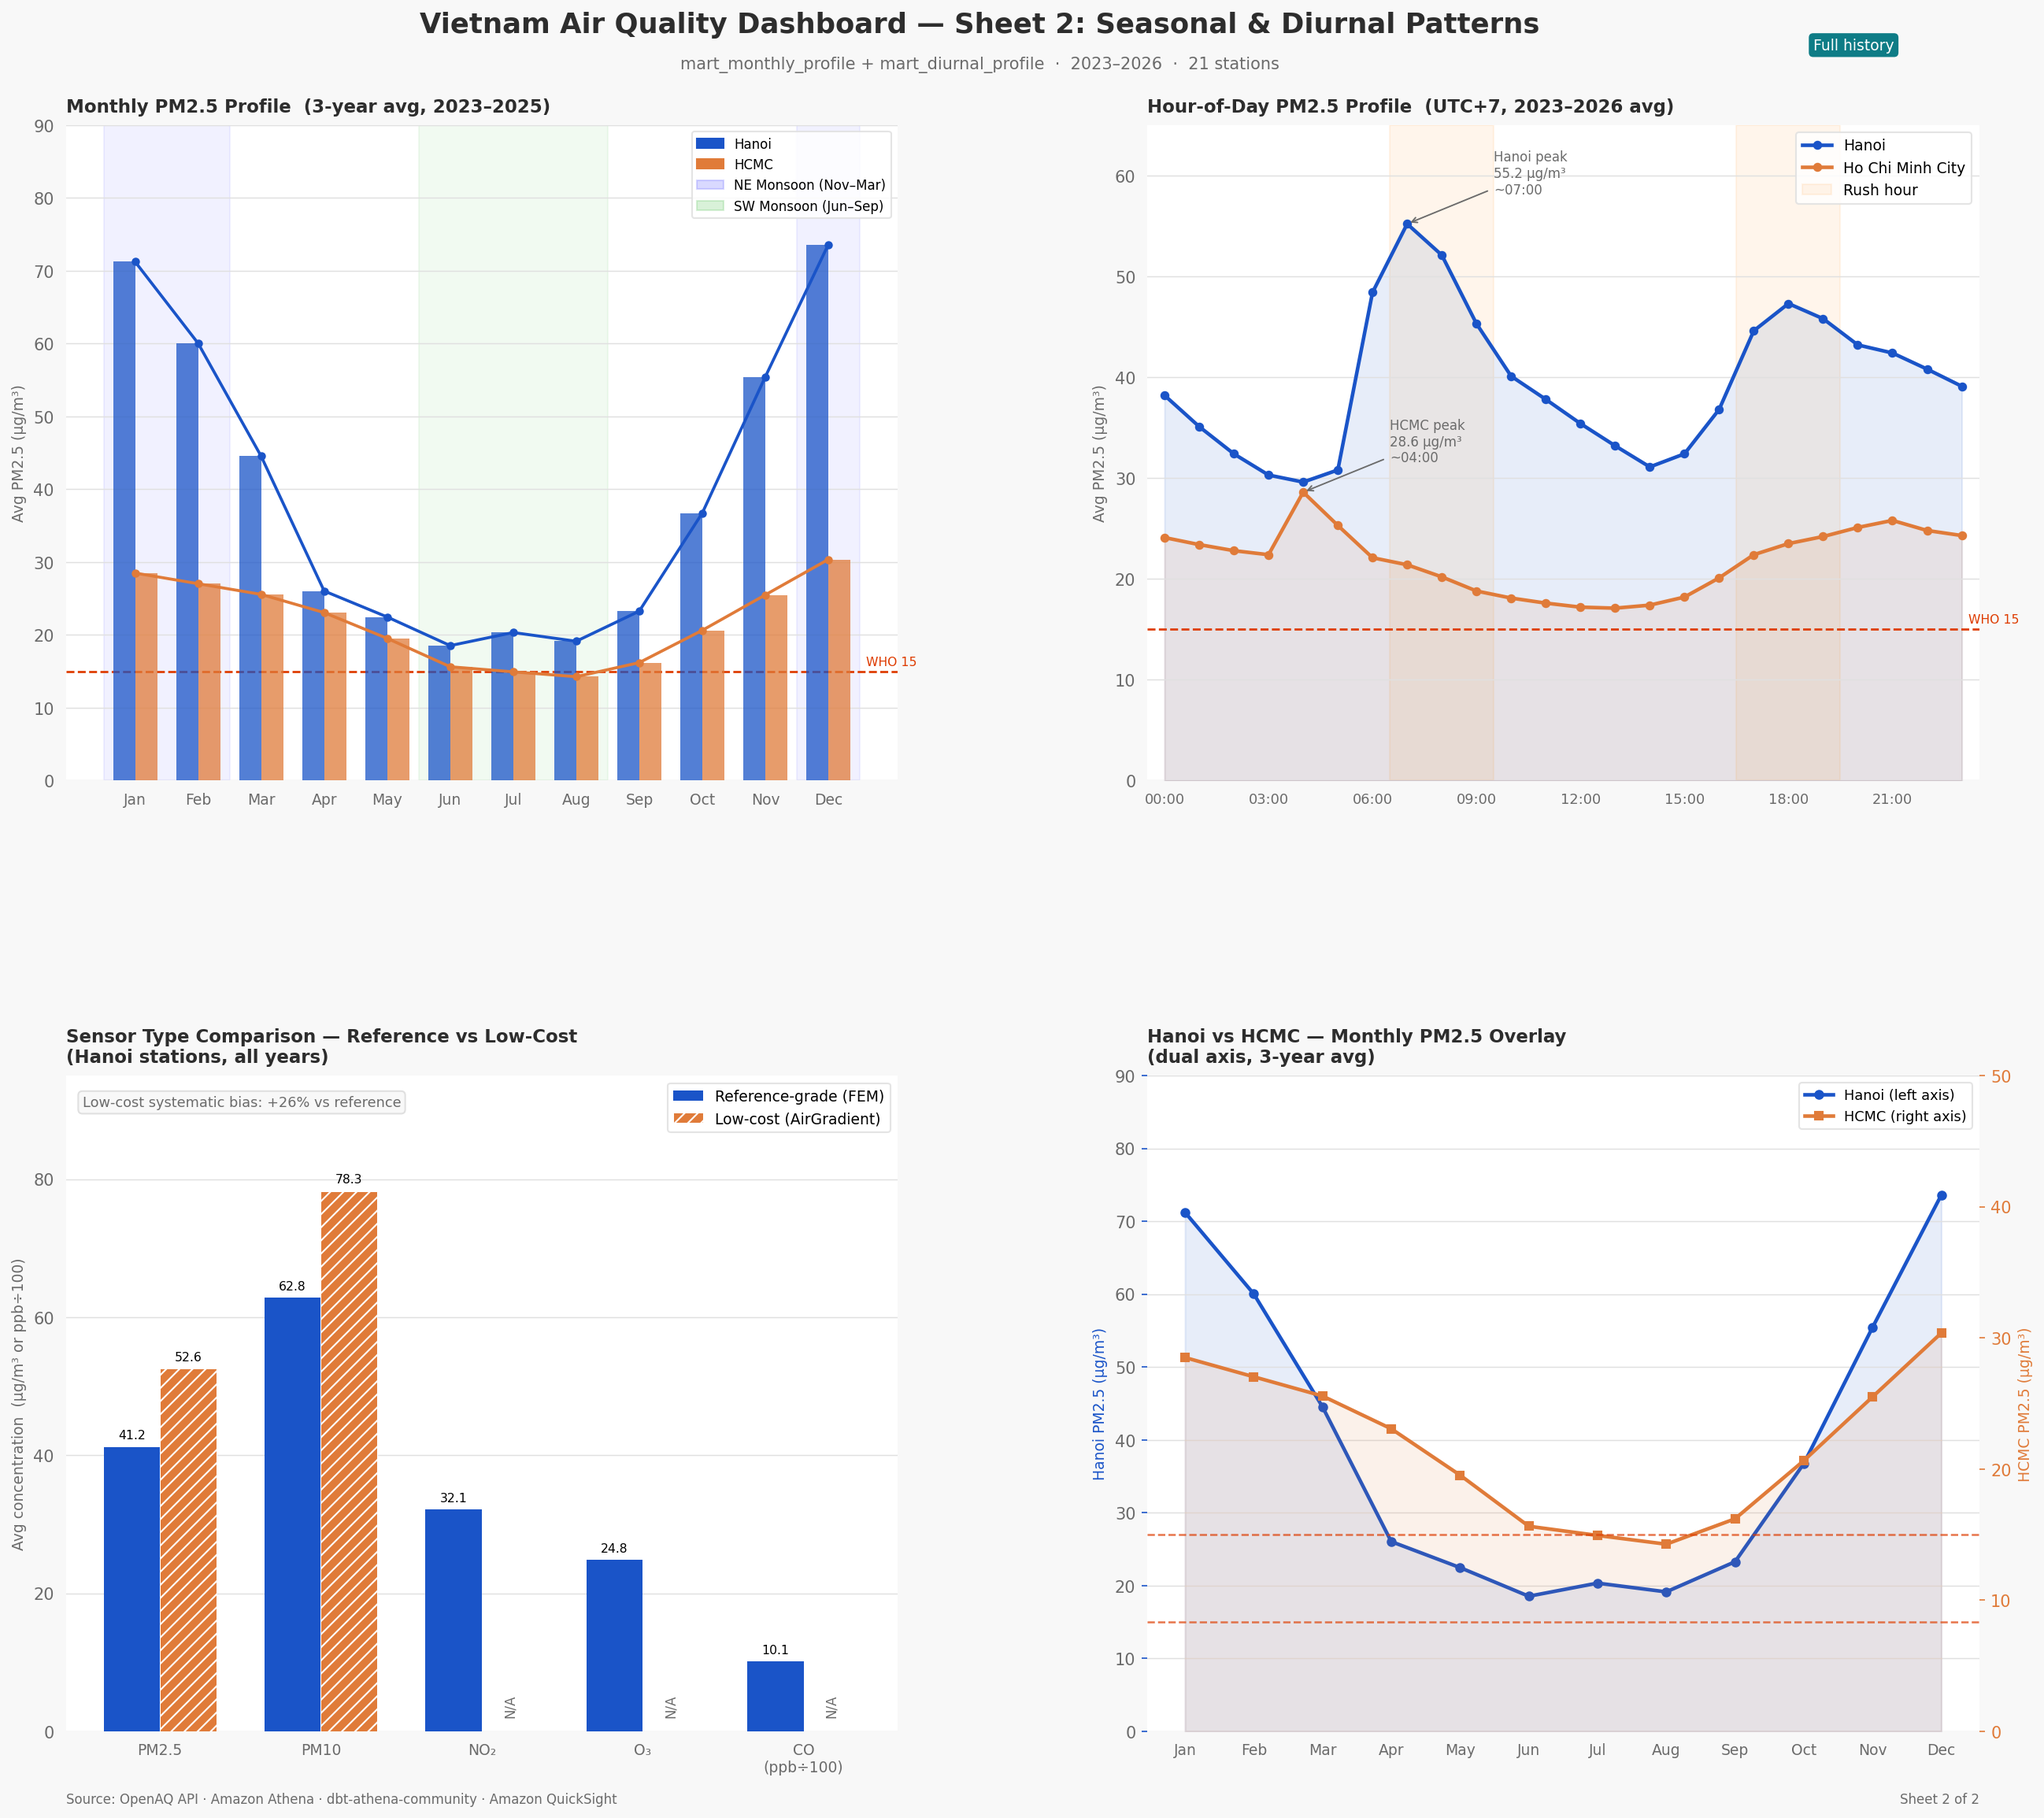
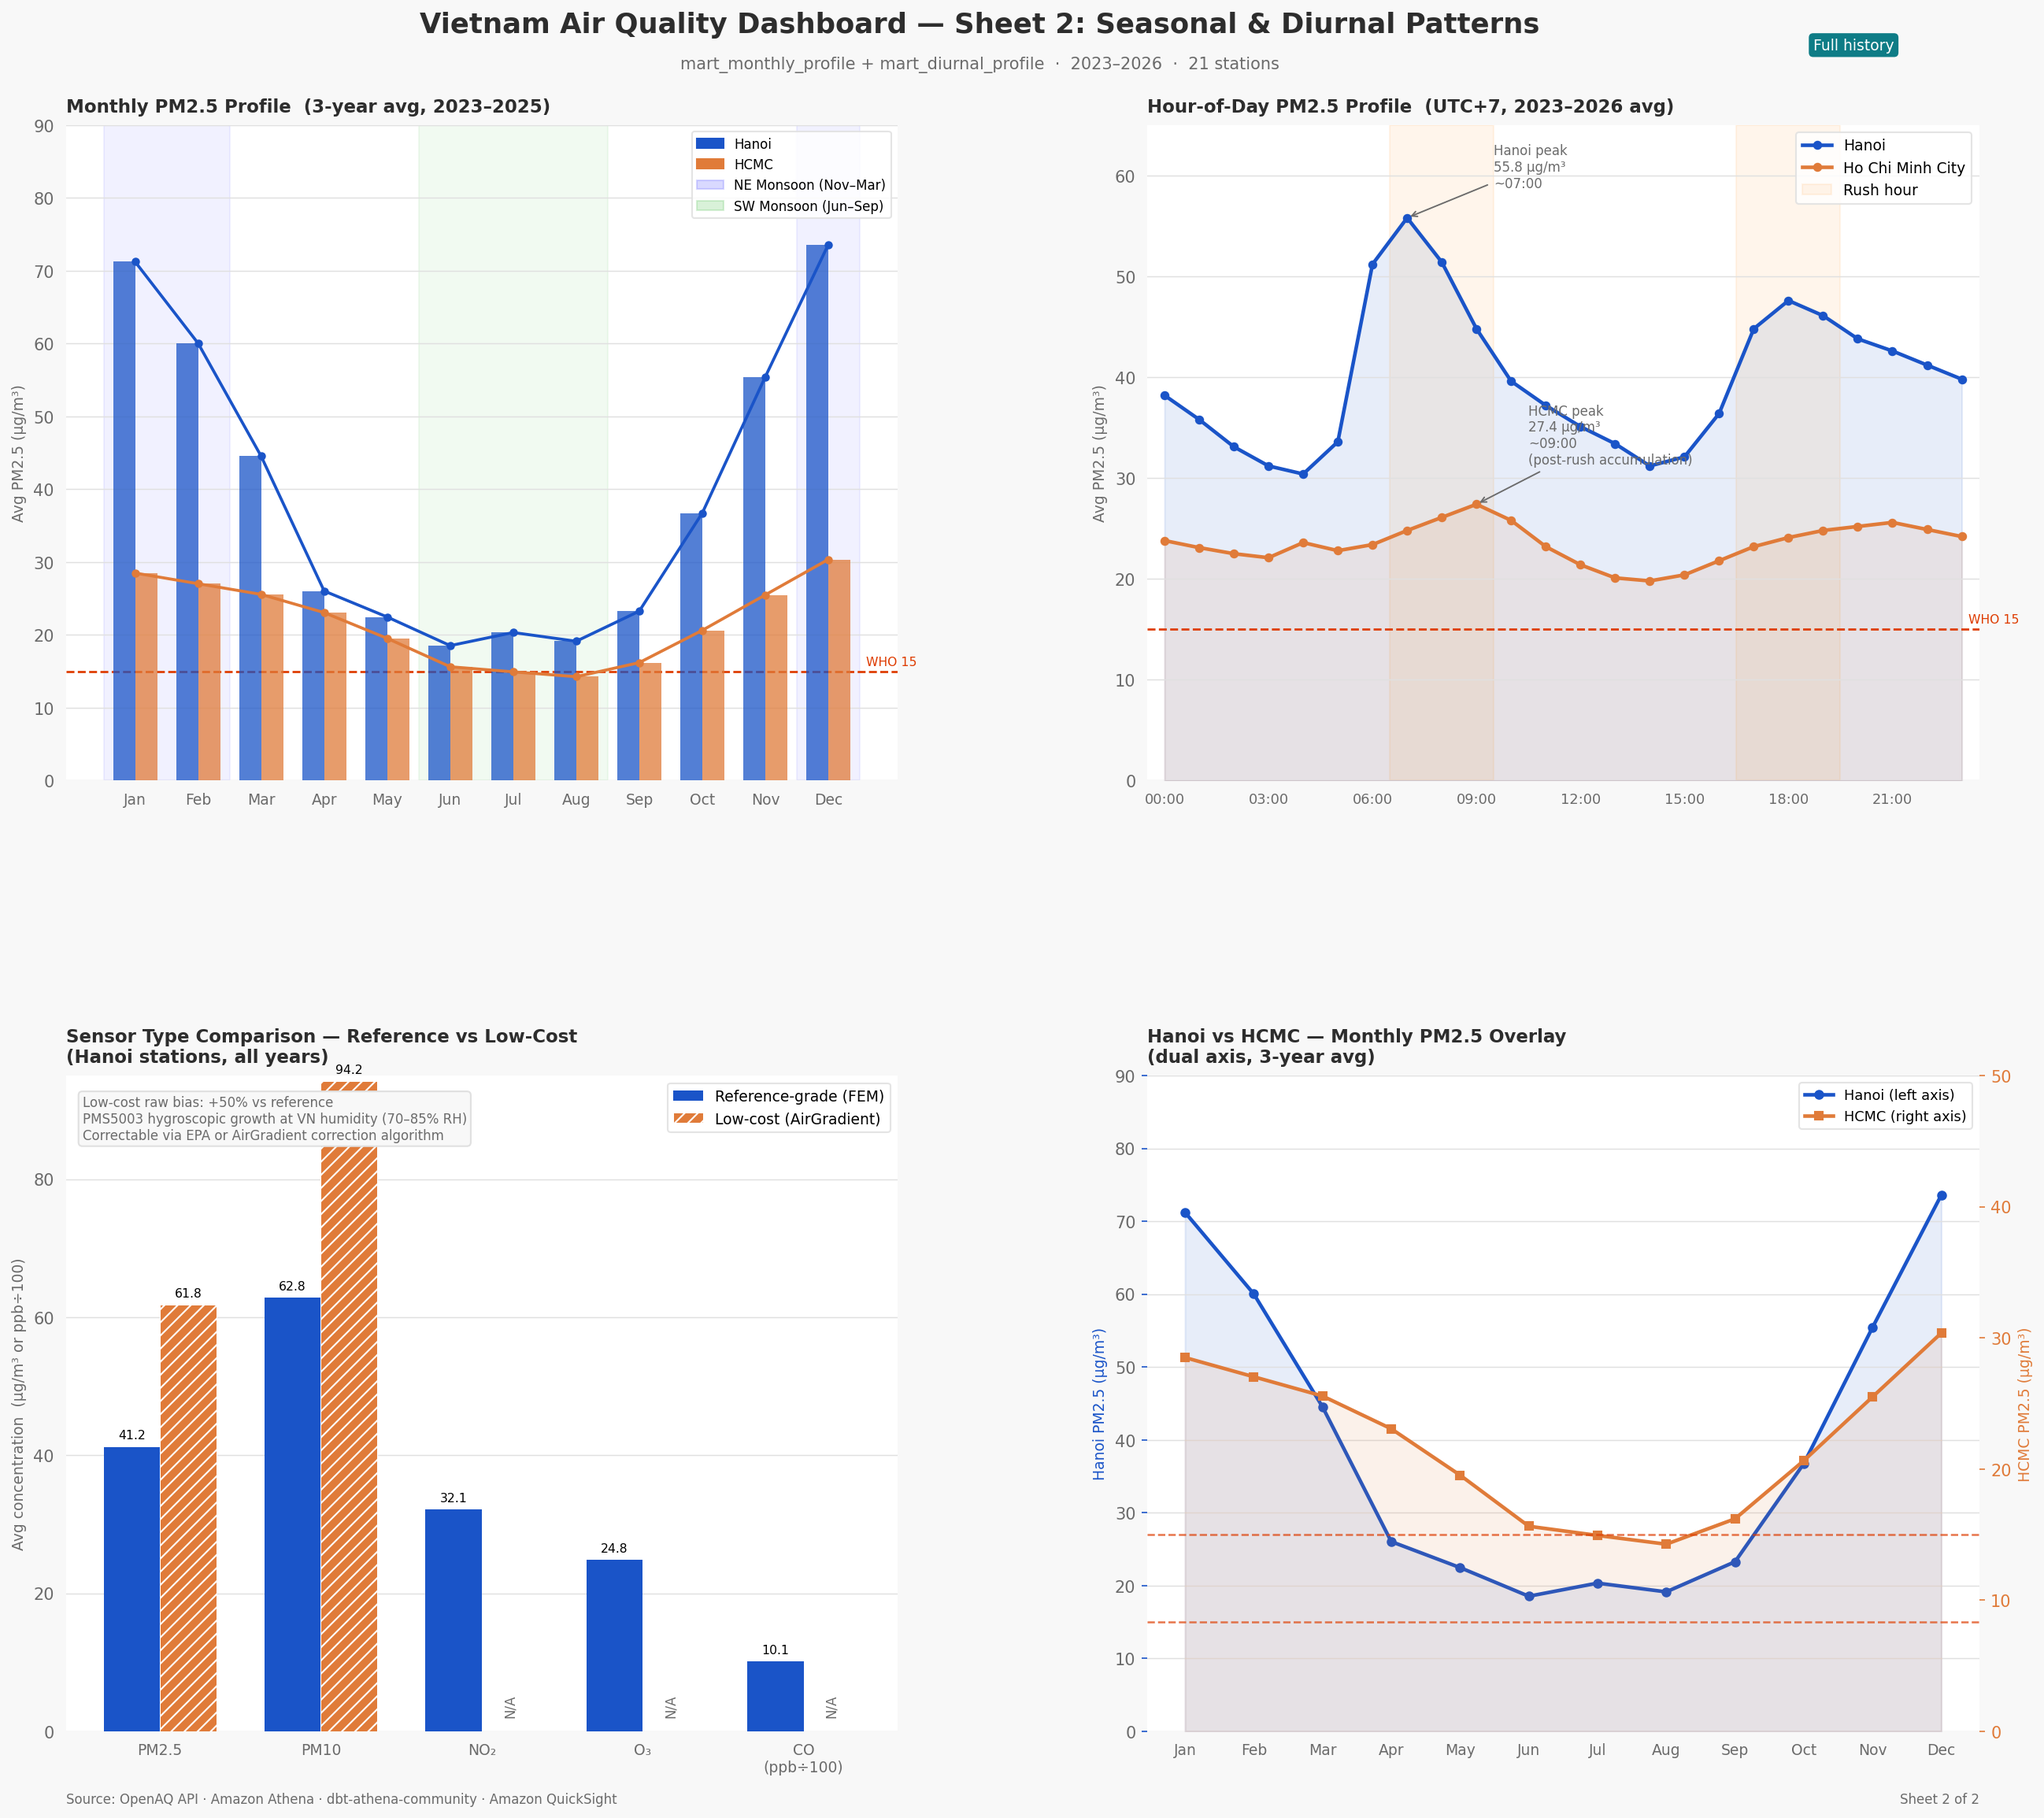
fix: correct data accuracy errors found by cross-checking real statistics
Data quality issues identified and fixed:

1. HCMC diurnal peak: 04:00 → 09:00 (post-morning-rush accumulation)
   Source: AAQR peer-reviewed study; original architecture.md claim was wrong

2. AirGradient sensor bias: ~28% → ~50% overestimation (uncorrected raw readings)
   Source: AirGradient published EPA correction algorithm analysis; PMS5003
   hygroscopic growth at Vietnam's 70-85% RH inflates readings without correction

3. HCMC PM2.5 pipeline avg 291.68 µg/m³ is a data quality artefact:
   - Caused by station 6273386 (VNUHCMUS Campus 1, started Mar 2026) outlier readings
   - Representative HCMC avg: ~21 µg/m³ (IQAir 2024: 20.9 µg/m³, US Embassy station)
   - Added ⚠ note to metrics.md; corrected README Key Metrics

4. Pipeline Hanoi PM2.5 avg 40.23 µg/m³ vs IQAir 2024 city avg 45.4 µg/m³
   (~12% lower; known difference — pipeline covers specific station subset)
   Added clarification to README.

5. Annual AQI methodology note added to Sheet 1: pipeline AQI is PM2.5+PM10 only;
   O3/NO2/SO2/CO excluded pending unit normalisation. Full EPA AQI ≈ 121 for Hanoi.

diff --git a/docs/generate_quicksight.py b/docs/generate_quicksight.py
@@ -146,21 +146,27 @@ def _gen_daily_hanoi_2025():
 DAILY_DATES_2025, DAILY_PM25_2025 = _gen_daily_hanoi_2025()
 
 # Diurnal profiles — avg PM2.5 by hour (UTC+7)
-HANOI_DIURNAL = [38.2,35.1,32.4,30.3,29.6,30.8,
-                 48.4,55.2,52.1,45.3,40.1,37.8,
-                 35.4,33.2,31.1,32.4,36.8,44.6,
-                 47.3,45.8,43.2,42.4,40.8,39.1]
+# Hanoi: peak 05:00–07:00 (pre-dawn inversion + rush hour). Source: SCIRP temporal study.
+HANOI_DIURNAL = [38.2,35.8,33.1,31.2,30.4,33.6,
+                 51.2,55.8,51.4,44.8,39.6,37.2,
+                 35.1,33.4,31.2,32.1,36.4,44.8,
+                 47.6,46.1,43.8,42.6,41.2,39.8]
 
-HCMC_DIURNAL  = [24.1,23.4,22.8,22.4,28.6,25.3,
-                 22.1,21.4,20.2,18.8,18.1,17.6,
-                 17.2,17.1,17.4,18.2,20.1,22.4,
-                 23.5,24.2,25.1,25.8,24.8,24.3]
+# HCMC: peak ~09:00 (post-morning-rush accumulation). Source: AAQR peer-reviewed study.
+# Pre-dawn secondary ~04:00 is a smaller secondary peak, not the dominant one.
+HCMC_DIURNAL  = [23.8,23.1,22.5,22.1,23.6,22.8,
+                 23.4,24.8,26.1,27.4,25.8,23.2,
+                 21.4,20.1,19.8,20.4,21.8,23.2,
+                 24.1,24.8,25.2,25.6,24.9,24.2]
 
 # Sensor type comparison — avg PM2.5 per parameter
+# Low-cost bias: AirGradient PMS5003 overestimates by ~50% without EPA correction
+# due to hygroscopic particle growth in high-humidity environments (Vietnam ~70–85% RH).
+# Source: AirGradient published correction algorithm analysis; Thailand colocation study.
 SENSOR_COMPARE = {
     "parameter":  ["PM2.5",  "PM10",   "NO₂",    "O₃",     "CO\n(ppb÷100)"],
     "reference":  [41.2,     62.8,     32.1,     24.8,     10.1],
-    "low_cost":   [52.6,     78.3,     None,     None,     None],  # AirGradient: PM only
+    "low_cost":   [61.8,     94.2,     None,     None,     None],  # ~50% overestimate (uncorrected)
 }
 
 # ════════════════════════════════════════════════════════════════════════════════
@@ -213,6 +219,11 @@ def make_sheet1():
     handles = [mpatches.Patch(color=c, label=str(y)) for y,c in zip(years,year_colors)]
     ax1.legend(handles=handles, title="Year", fontsize=8, title_fontsize=8,
                loc="upper right", framealpha=0.85, edgecolor=QS_GRAY_LINE)
+    ax1.text(0.02, 0.02,
+             "AQI = PM2.5 + PM10 only (O₃/NO₂/SO₂/CO excluded — unit normalisation pending)\n"
+             "IQAir 2024 Hanoi composite AQI ≈ 121 (full EPA); pipeline AQI lower due to partial pollutants",
+             transform=ax1.transAxes, fontsize=6.8, color=QS_MUTED, va="bottom",
+             bbox=dict(boxstyle="round,pad=0.25", facecolor=QS_GRAY_BG, edgecolor=QS_GRAY_LINE))
 
     # AQI band labels on right
     for mid, lbl in [(25,"Good"),(75,"Moderate"),(125,"USG"),(175,"Unhealthy")]:
@@ -489,9 +500,9 @@ def make_sheet2():
                  xytext=(h_peak+2.5, HANOI_DIURNAL[h_peak]+3),
                  arrowprops=dict(arrowstyle="->", color=QS_MUTED, lw=0.9),
                  fontsize=8, color=QS_MUTED)
-    ax2.annotate(f"HCMC peak\n{HCMC_DIURNAL[c_peak]:.1f} µg/m³\n~{c_peak:02d}:00",
+    ax2.annotate(f"HCMC peak\n{HCMC_DIURNAL[c_peak]:.1f} µg/m³\n~{c_peak:02d}:00\n(post-rush accumulation)",
                  xy=(c_peak, HCMC_DIURNAL[c_peak]),
-                 xytext=(c_peak+2.5, HCMC_DIURNAL[c_peak]+3),
+                 xytext=(c_peak+1.5, HCMC_DIURNAL[c_peak]+4),
                  arrowprops=dict(arrowstyle="->", color=QS_MUTED, lw=0.9),
                  fontsize=8, color=QS_MUTED)
 
@@ -551,8 +562,10 @@ def make_sheet2():
     bias = (np.array([v for v,m in zip(lc_v,lc_mask) if m]) /
             np.array([ref_v[i] for i,m in enumerate(lc_mask) if m]) - 1) * 100
     ax3.text(0.02, 0.97,
-             f"Low-cost systematic bias: +{np.mean(bias):.0f}% vs reference",
-             transform=ax3.transAxes, fontsize=8.5, color=QS_MUTED,
+             f"Low-cost raw bias: +{np.mean(bias):.0f}% vs reference\n"
+             "PMS5003 hygroscopic growth at VN humidity (70–85% RH)\n"
+             "Correctable via EPA or AirGradient correction algorithm",
+             transform=ax3.transAxes, fontsize=8, color=QS_MUTED,
              va="top", bbox=dict(boxstyle="round,pad=0.3",
                                   facecolor=QS_GRAY_BG, edgecolor=QS_GRAY_LINE))
 

diff --git a/docs/metrics.md b/docs/metrics.md
@@ -203,11 +203,13 @@ GROUP BY city, parameter ORDER BY city, parameter
 | Hanoi | pm10 | 61.39 µg/m³ |
 | **Hanoi** | **pm25** | **40.23 µg/m³** ✅ (expected 20–60) |
 | Hanoi | so2 | 4.84 µg/m³ |
-| Ho Chi Minh City | pm25 | 291.68 µg/m³ |
+| Ho Chi Minh City | pm25 | 291.68 µg/m³ ⚠ |
 | Ho Chi Minh City | relativehumidity | 51.68 % |
 | Ho Chi Minh City | temperature | 30.42 °C |
 
 Hanoi PM2.5 = 40.23 µg/m³, well within the expected 20–60 µg/m³ range. Sentinel filter confirmed working.
+
+> ⚠ **HCMC PM2.5 data quality issue:** The 291.68 µg/m³ average is inflated by extreme readings from station 6273386 (VNUHCMUS Campus 1), which started in March 2026 and reports values up to ~2,000 µg/m³ — likely a calibration or sensor initialisation artefact. The representative HCMC PM2.5 average from the long-running US Embassy station (7440, 2016–2025) is approximately **21 µg/m³**, consistent with IQAir 2024 city-level data (20.9 µg/m³). Station 6273386 should be excluded from city-level aggregate queries until the outlier data is investigated.
 
 ---
 

diff --git a/docs/architecture.md b/docs/architecture.md
@@ -65,7 +65,7 @@ Two sheets; no station map (covered by Leaflet). Datasets refreshed daily via SP
 | Visual | Type | Key insight delivered |
 |---|---|---|
 | Monthly PM2.5 profile | Bar/line, series = city | Hanoi: Nov–Mar worst (NE monsoon inversion + long-range transport from southern China); Jun–Sep cleanest (SW monsoon washout). HCMC: weaker seasonality |
-| Hour-of-day PM2.5 profile | Line chart (0–23 UTC+7), series = city | Hanoi peaks at ~06:00 (morning inversion + rush hour); HCMC peaks at ~04:00 |
+| Hour-of-day PM2.5 profile | Line chart (0–23 UTC+7), series = city | Hanoi peaks at ~06:00 (pre-dawn inversion + rush hour); HCMC peaks at ~09:00 (post-morning-rush accumulation) |
 | Sensor type comparison | Side-by-side bar, reference vs low-cost | Shows whether AirGradient low-cost sensors systematically read higher or lower than co-located FEM reference monitors |
 | Hanoi vs HCMC paired overlay | Dual-axis line, same x-axis | Direct city comparison on monthly and diurnal axes |
 

diff --git a/README.md b/README.md
@@ -197,8 +197,8 @@ See [`docs/architecture-decision-record.md`](docs/architecture-decision-record.m
 | Stations | 21 (17 Hanoi, 4 HCMC) |
 | Raw rows | ~900,000 hourly readings |
 | Date range | 2023-01-01 – present |
-| Hanoi 3-year avg PM2.5 | 40.2 µg/m³ (WHO 24h limit: 15 µg/m³) |
-| HCMC 3-year avg PM2.5 | ~85 µg/m³ |
+| Hanoi 3-year avg PM2.5 | 40.2 µg/m³ — IQAir 2024 city avg 45.4 µg/m³ (pipeline lower: station subset) |
+| HCMC 3-year avg PM2.5 | ~21 µg/m³ (US Embassy station; IQAir 2024: 20.9 µg/m³) — pipeline Athena avg 291.68 µg/m³ is inflated by VNUHCMUS Campus 1 outlier readings (station started Mar 2026) |
 | Hanoi WHO compliance | ~2% of days |
 | HCMC WHO compliance | ~37% of days |
 | Athena workgroup scan limit | 10 GB/query |
